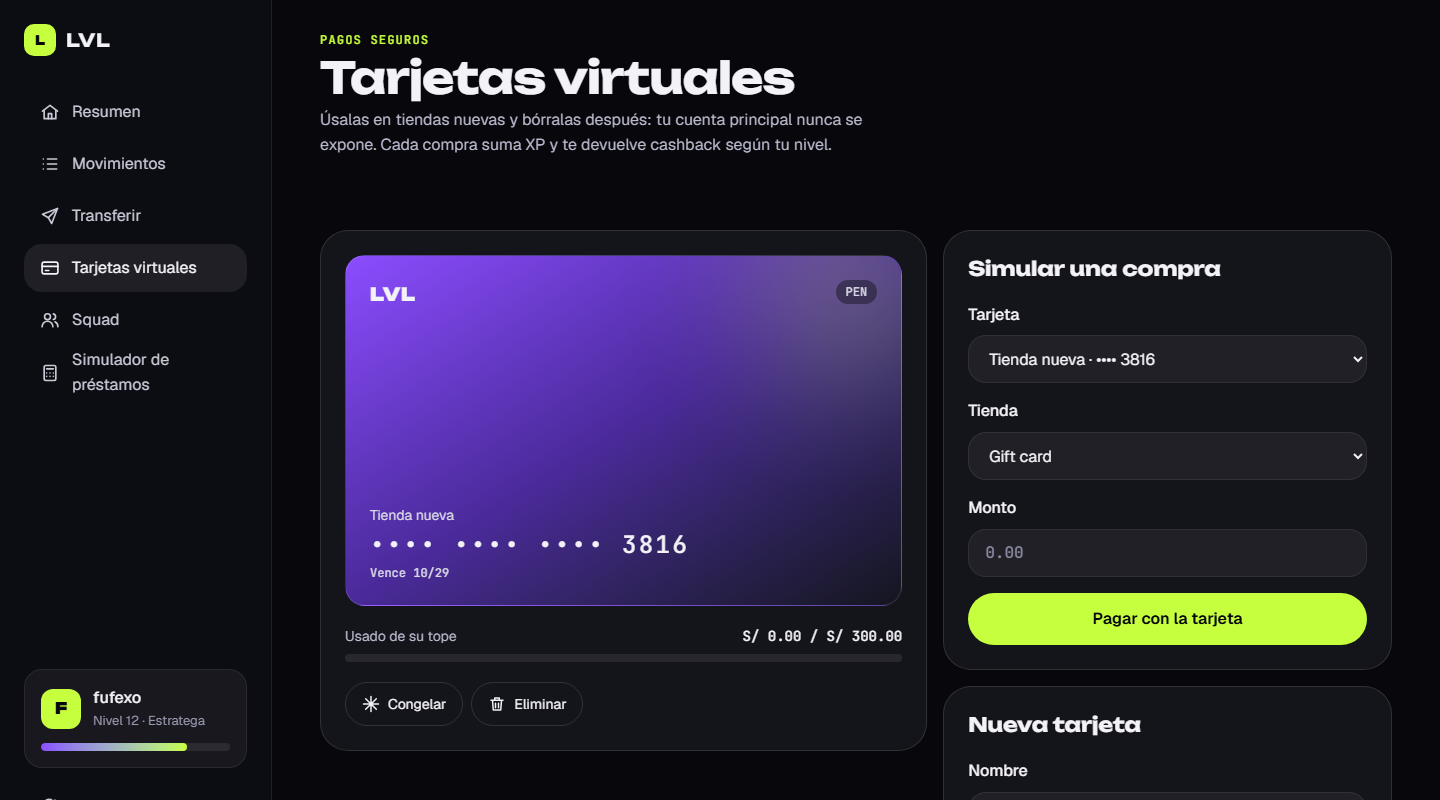
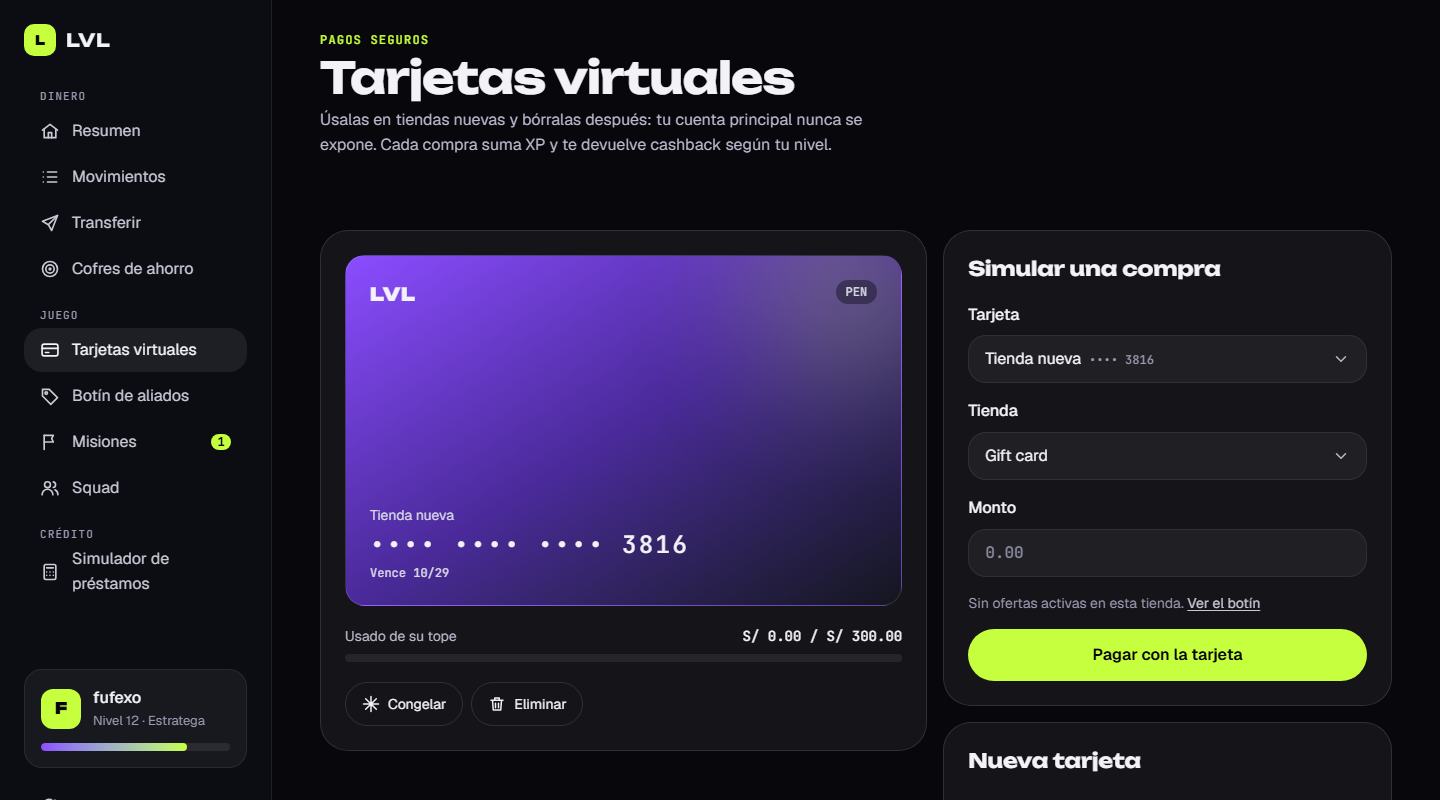
docs: capturas actualizadas y enlace al repositorio
- El pie de la landing enlaza al código del proyecto en GitHub
- README con todas las funciones en la introducción y capturas nuevas
  (resumen, tarjetas, botín, préstamos y vistas móviles)

diff --git a/src/app/features/landing/sections/site-footer.ts b/src/app/features/landing/sections/site-footer.ts
@@ -11,8 +11,8 @@ import { Component } from '@angular/core';
         <span class="font-display font-bold text-fg">LVL</span>
         <span>Proyecto de portafolio · marca ficticia · Lima, Perú</span>
         <nav aria-label="Pie de página" class="flex gap-6">
-          <a href="https://github.com/Fufexo" target="_blank" rel="noopener noreferrer" class="text-dim no-underline hover:text-fg">
-            GitHub<span class="sr-only"> (se abre en una pestaña nueva)</span>
+          <a href="https://github.com/Fufexo/lvl-wallet" target="_blank" rel="noopener noreferrer" class="text-dim no-underline hover:text-fg">
+            Código en GitHub<span class="sr-only"> (se abre en una pestaña nueva)</span>
           </a>
           <a href="#inicio" class="text-dim no-underline hover:text-fg">Volver arriba</a>
         </nav>

diff --git a/README.md b/README.md
@@ -2,7 +2,7 @@
 
 [![CI](https://github.com/Fufexo/lvl-wallet/actions/workflows/ci.yml/badge.svg)](https://github.com/Fufexo/lvl-wallet/actions/workflows/ci.yml)
 
-Billetera digital ficticia para gamers en Perú: una landing animada y un panel bancario de demo con cuentas en soles y dólares, transferencias con tipo de cambio en vivo y un simulador de préstamos que premia tu nivel.
+Billetera digital ficticia para gamers en Perú: una landing animada y un panel bancario de demo con cuentas en soles y dólares, transferencias con tipo de cambio en vivo, tarjetas virtuales, ofertas que se desbloquean por nivel, misiones semanales, cofres de ahorro y un simulador de préstamos que premia tu nivel.
 
 **Demo en vivo → [lvl-wallet.vercel.app](https://lvl-wallet.vercel.app)** · Para el panel, entra en [/ingresar](https://lvl-wallet.vercel.app/ingresar) con cualquier gamertag (no hay contraseñas ni datos reales).
 
@@ -40,6 +40,8 @@ Billetera digital ficticia para gamers en Perú: una landing animada y un panel 
 - **Simulador de préstamos:** cuota fija (sistema francés) con TEA que baja según tu nivel, gráfico de capital vs. interés por mes y cronograma completo en tabla.
 
 ![Tarjetas virtuales: tarjeta con su tope, compra simulada y creación de tarjetas](docs/dashboard-cards.png)
+
+![Botín de aliados: ofertas por nivel con vencimiento, activas y bloqueadas](docs/dashboard-offers.png)
 
 ![Simulador de préstamos con cuota mensual y gráfico de capital e interés](docs/dashboard-loans.png)
 
